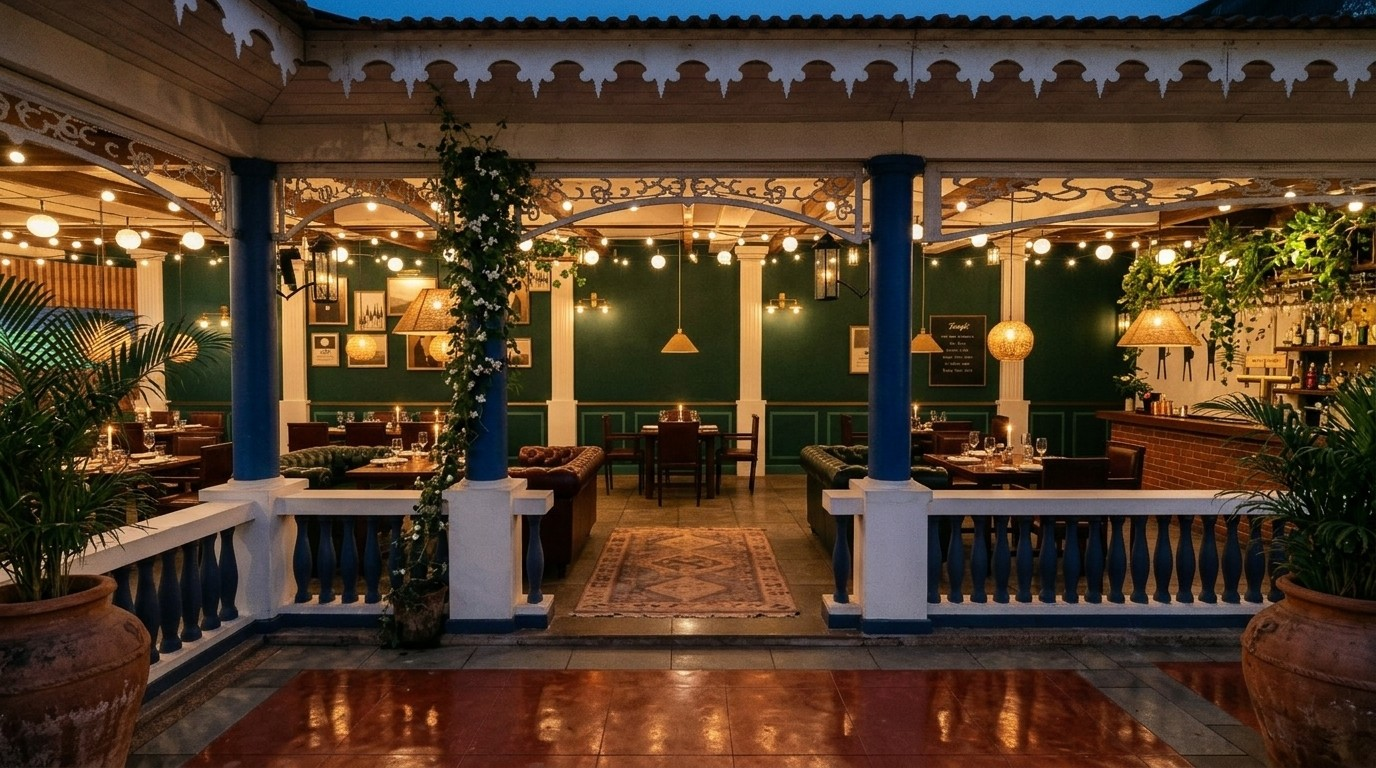
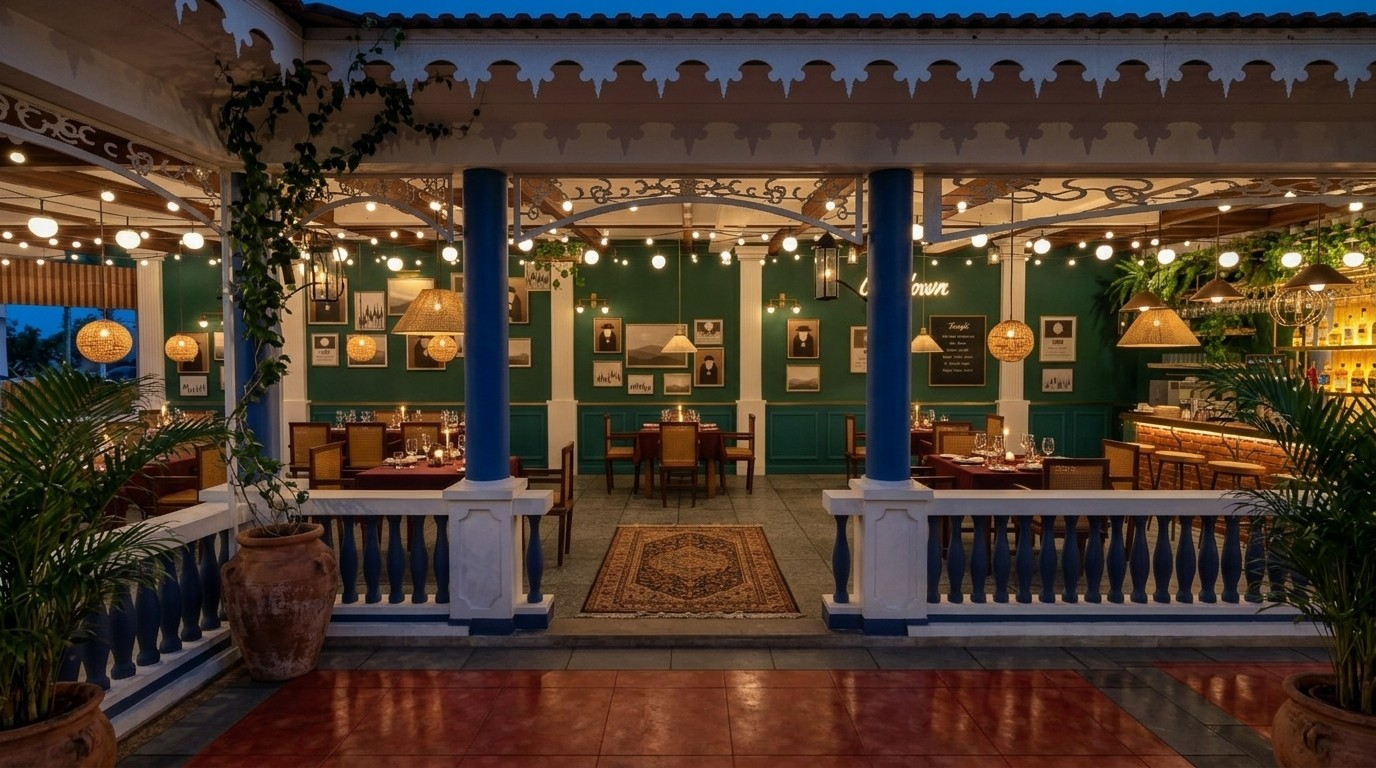
Decor page redone for the current design: two-tone green and teal wall, walnut and cane chairs with cognac seats, burgundy cloths, coffee station, fireplace under the TV (new Google Flow renders)

diff --git a/decor.html b/decor.html
@@ -72,7 +72,7 @@ footer a{color:var(--muted)}
 <header>
   <span class="eyebrow">Cabin East &middot; Garden &middot; decor concept</span>
   <h1>A green room in a Goan garden</h1>
-  <p>A dark, warm, premium look for the Garden at night, in the spirit of the inspiration boards: low pools of brass and candle light, deep green, polished teak and lush planting. It is built on the updated 3D model of the site as it stands: the blue columns and navy balustrade, the white fretwork and fleur-de-lis eaves, the coffered white ceiling and the brick bar all stay. The new layer is a bottle-green wall over green panelling that hides the old tiles, warm brass and jute light, teak and cane, and a lit path from the gate to the door. Every render keeps the model's layout; only the finishes change.</p>
+  <p>A dark, warm, premium look for the Garden at night, in the spirit of the inspiration boards: low pools of brass and candle light, deep green, polished teak and lush planting. It is built on the updated 3D model of the site as it stands: the blue columns and navy balustrade, the white fretwork and fleur-de-lis eaves, the coffered white ceiling and the brick bar all stay. The new layer is a two-tone wall (bottle green over deep teal-green panelling that hides the old tiles), warm brass and jute light, walnut and cane chairs with cognac seats, burgundy linen on the tables, a garden-style bar with a coffee station and a fireplace under the TV, and a lit path from the gate to the door. Every render keeps the model's layout; only the finishes change.</p>
 </header>
 
 <figure>
@@ -81,12 +81,16 @@ footer a{color:var(--muted)}
 </figure>
 
 <div class="palette" aria-label="Palette">
-  <div class="sw"><i style="background:#1f3d2e"></i><b>Bottle green</b><span>wall, wainscot</span></div>
+  <div class="sw"><i style="background:#1f3d2e"></i><b>Bottle green</b><span>upper wall</span></div>
+  <div class="sw"><i style="background:#163f3c"></i><b>Deep teal-green</b><span>panelling below</span></div>
   <div class="sw"><i style="background:#2443a6"></i><b>Goa blue</b><span>columns (existing)</span></div>
   <div class="sw"><i style="background:#1f2a5c"></i><b>Navy</b><span>balusters, plinth</span></div>
   <div class="sw"><i style="background:#f2efe8"></i><b>Lime white</b><span>pilasters, fretwork, ceiling</span></div>
   <div class="sw"><i style="background:#9a7434"></i><b>Aged brass</b><span>rails, sconces, lanterns</span></div>
-  <div class="sw"><i style="background:#7b4f2c"></i><b>Teak</b><span>tables, bar top, beams</span></div>
+  <div class="sw"><i style="background:#7b4f2c"></i><b>Teak</b><span>tables, bar top</span></div>
+  <div class="sw"><i style="background:#3e2618"></i><b>Dark walnut</b><span>chair frames</span></div>
+  <div class="sw"><i style="background:#a2582a"></i><b>Cognac</b><span>chair seats</span></div>
+  <div class="sw"><i style="background:#6a1622"></i><b>Burgundy</b><span>tablecloths</span></div>
   <div class="sw"><i style="background:#a9533a"></i><b>Old brick</b><span>bar counter (existing)</span></div>
   <div class="sw"><i style="background:#b9473a"></i><b>Red oxide</b><span>landing, paths</span></div>
 </div>
@@ -170,8 +174,10 @@ footer a{color:var(--muted)}
     <div>
       <p class="lede">The one solid wall carries the pub character. The old tiles are covered, not broken out, and the white pilasters stay as the frame for each bay.</p>
       <table class="spec">
-        <tr><th>Tiles</th><td>Hidden behind WPC panelled wainscot on battens, 1.0 m high, raised panels about 75 cm wide, painted one shade deeper than the wall; slim brass cap rail</td></tr>
-        <tr><th>Wall</th><td>Bottle-green matt above, anti-fungal; test the sample at night under 2700 K before buying</td></tr>
+        <tr><th>Chairs</th><td>Dark walnut frames and legs, woven cane backs, cognac leather-look seat pads in marine-grade vinyl</td></tr>
+        <tr><th>Tables</th><td>Heavy burgundy cotton-linen tablecloths with a tone-on-tone damask, candles and fine glassware</td></tr>
+        <tr><th>Tiles</th><td>Hidden behind WPC panelled wainscot on battens, 1.0 m high, raised panels about 75 cm wide, painted deep teal-green (close to Farrow &amp; Ball Studio Green No. 93 or Asian Paints Midnight Forest); a slim brass rail between it and the bottle green above</td></tr>
+        <tr><th>Wall</th><td>Two-tone: bottle-green matt above, anti-fungal; test the sample at night under 2700 K before buying</td></tr>
         <tr><th>Pilasters</th><td>Existing white fluted pilasters kept and freshened</td></tr>
         <tr><th>Art</th><td>Frames in every bay: a large salon hang in the middle and smaller groups of gilt and black frames under the sconces; brass picture lights, trailing pothos and ferns on timber shelves</td></tr>
         <tr><th>Ceiling</th><td>Existing white coffers and dark false-beams kept; festoon lights under them</td></tr>
@@ -183,8 +189,8 @@ footer a{color:var(--muted)}
 </section>
 
 <section class="zone" id="tv">
-  <div class="zone-head"><span class="eyebrow">Inside</span><h2>The TV corner</h2><span class="dim">one 65 in screen &middot; north-west corner</span></div>
-  <figure><img class="render" src="decor/tv-1.jpg" alt="A 65-inch TV across the corner on a slatted teak panel, blue column and navy balustrade on the left, green wall on the right"></figure>
+  <div class="zone-head"><span class="eyebrow">Inside</span><h2>The TV corner</h2><span class="dim">one 65 in screen + fireplace &middot; north-west corner</span></div>
+  <figure><img class="render" src="decor/tv-2.jpg" alt="A 65-inch TV across the corner on a slatted teak panel, blue column and navy balustrade on the left, green wall on the right"></figure>
   <div class="cols">
     <div>
       <p class="lede">One screen only, set exactly on the diagonal where the long wall meets the open side, so it faces the whole west half of the room.</p>
@@ -192,6 +198,7 @@ footer a{color:var(--muted)}
         <tr><th>Screen</th><td>65 in, slim black, on a tilting arm; centre about 1.95 m, bottom about 1.55 m</td></tr>
         <tr><th>Panel</th><td>Slatted dark teak closing the corner from the wall to the corner column, cables run inside it</td></tr>
         <tr><th>Sound</th><td>Slim soundbar under the screen</td></tr>
+        <tr><th>Fireplace</th><td>Linear LED log-effect electric fireplace (about 1.2 m) in a white mantel console under the TV, candles on the mantel; flame effect only, no real heat needed in Goa</td></tr>
       </table>
     </div>
     <div class="site"><span class="eyebrow">Already on site</span><ul><li>Corner where the wall meets the 7.76 m open side</li><li>Blue column at the corner</li></ul></div>
@@ -199,20 +206,20 @@ footer a{color:var(--muted)}
 </section>
 
 <section class="zone" id="bar">
-  <div class="zone-head"><span class="eyebrow">Inside</span><h2>The bar</h2><span class="dim">counter 2.80 m + server station 1.50 m</span></div>
-  <figure><img class="render" src="decor/bar-1.jpg" alt="The bar at night: brick base, thick teak top on iron brackets with string lights, copper and rattan pendants, a bottle wall on a green wall, server station with an espresso machine"></figure>
+  <div class="zone-head"><span class="eyebrow">Inside</span><h2>The bar</h2><span class="dim">counter 2.80 m &middot; coffee station beside it</span></div>
+  <figure><img class="render" src="decor/bar-1.jpg" alt="The bar at night: brick base, thick teak top on iron brackets with string lights, copper and rattan pendants, a bottle wall on a green wall, coffee station with a filter brewer beside it"></figure>
   <div class="cols">
     <div>
-      <p class="lede">The bar is the hero of the room, styled like a garden bar: the brick base kept and sealed, a thick teak top on iron brackets with lights along its edge, low copper pendants, and a bottle wall on a green wall behind. The counter runs on to the left as a server station with the coffee machine.</p>
+      <p class="lede">The bar is the hero of the room, styled like a garden bar: the brick base kept and sealed, a thick teak top on iron brackets with lights along its edge, low copper pendants, and a bottle wall on a green wall behind. To its left, against the green wall, is a coffee station.</p>
       <table class="spec">
         <tr><th>Counter</th><td>Existing red brick, cleaned and sealed with a matt sealer; brick pilasters on the front, brick pier at the open side</td></tr>
         <tr><th>Top</th><td>Thick warm teak, 60 mm, on black wrought-iron brackets; a string of small warm Edison bulbs along the front edge; brass foot rail</td></tr>
         <tr><th>Taps</th><td>One brass font with three craft taps</td></tr>
-        <tr><th>Back bar</th><td>Behind the counter and the server station: a bottle wall of two chunky teak shelves on iron brackets packed with wine, whisky and gin, lit from below; backlit shelves, cooler, glass-washer, ON TAP board</td></tr>
-        <tr><th>Server station</th><td>Same brick and teak top for 1.5 m to the left, a pick-up ledge for the servers, cutlery drawers; on the back counter a two-group espresso machine, grinder, cup warmer and POS. 0.7 m staff way in by the wall</td></tr>
+        <tr><th>Back bar</th><td>Behind the counter: a bottle wall of two chunky teak shelves on iron brackets packed with wine, whisky and gin, lit from below; backlit shelves, cooler, glass-washer, ON TAP board</td></tr>
+        <tr><th>Coffee station</th><td>Olive-green panelled cabinet with brass knobs and a white marble top: a twin filter-coffee brewer with glass carafes and a stainless hot-water urn; two floating oak shelves lit underneath for glasses and cups; a brass rail with a linen towel and a trailing pothos</td></tr>
         <tr><th>Above</th><td>Low copper dome pendants and rattan lanterns over the counter; floating brass glass rack with trailing ivy</td></tr>
         <tr><th>Stools</th><td>Four stools with round teak seats on black iron frames with footrings</td></tr>
-        <tr><th>End wall</th><td>The old white mural wall painted bottle green to the ceiling, with the same panelled wainscot as the long wall</td></tr>
+        <tr><th>End wall</th><td>The old white mural wall painted bottle green to the ceiling, with the same deep teal-green panelling below</td></tr>
       </table>
     </div>
     <div class="site"><span class="eyebrow">Already on site</span><ul><li>Brick counter on the right half of the end</li><li>White end wall on the left (to be painted green)</li></ul></div>
@@ -221,7 +228,7 @@ footer a{color:var(--muted)}
 
 <section class="zone" id="materials">
   <div class="zone-head"><span class="eyebrow">Samples</span><h2>Materials board</h2><span class="dim">take this to suppliers</span></div>
-  <figure><img style="width:100%;max-width:100%;display:block;border-radius:4px" src="decor/board-1.jpg" alt="Flat-lay of samples: green paint and panelling with brass rail, white fluted moulding, blue column paint, navy baluster, granite, red oxide, kota, brick, teak with brass, cane, jute, brass lantern, terracotta"></figure>
+  <figure><img style="width:100%;max-width:100%;display:block;border-radius:4px" src="decor/board-2.jpg" alt="Flat-lay of samples: green paint and panelling with brass rail, white fluted moulding, blue column paint, navy baluster, granite, red oxide, kota, brick, teak with brass, cane, jute, brass lantern, terracotta"></figure>
 </section>
 
 <section class="care" id="care">
@@ -241,11 +248,12 @@ footer a{color:var(--muted)}
 <section class="care next" id="next">
   <h2>Next steps</h2>
   <ol>
-    <li>Get a quote for the WPC wainscot (about 15 m run, 1 m high) and a sample panel painted in the green.</li>
-    <li>Paint three green sample boards on site and look at them at night.</li>
+    <li>Get a quote for the WPC wainscot (about 18 m run, 1 m high) and a sample panel painted in the deep teal-green.</li>
+    <li>Paint sample boards of the bottle green and the teal-green side by side on site and look at them at night.</li>
     <li>Remove the tan ply from the bar and check the brick before sealing.</li>
     <li>Confirm the approach-path length and the balcony roof fixing points for the festoon canopy.</li>
-    <li>Plan the server station: water and drain for the espresso machine, a 16 A socket, and data for the POS.</li>
+    <li>Plan the coffee station: a water line for the brewer and urn, two 16 A sockets, and a drain if the urn is plumbed in.</li>
+    <li>Order chair samples: walnut frame with cane back and a cognac vinyl seat, to check against the burgundy cloths.</li>
     <li>Plan lighting circuits: hall, bar, approach path and gate on separate dimmers or timers.</li>
   </ol>
 </section>
